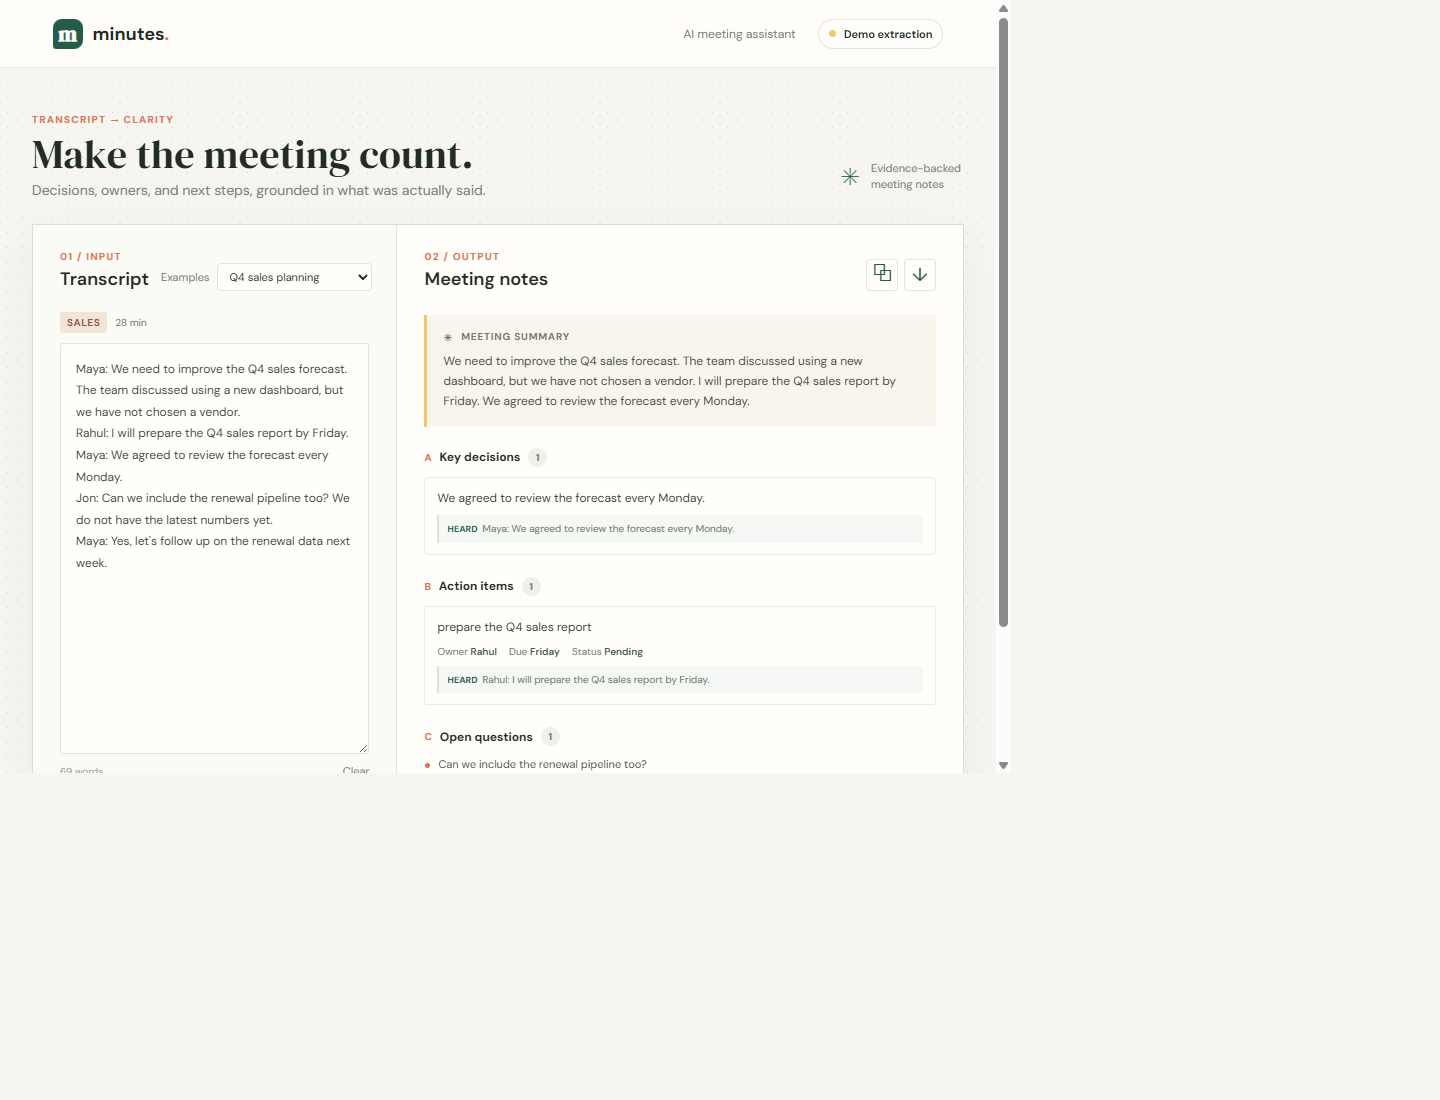
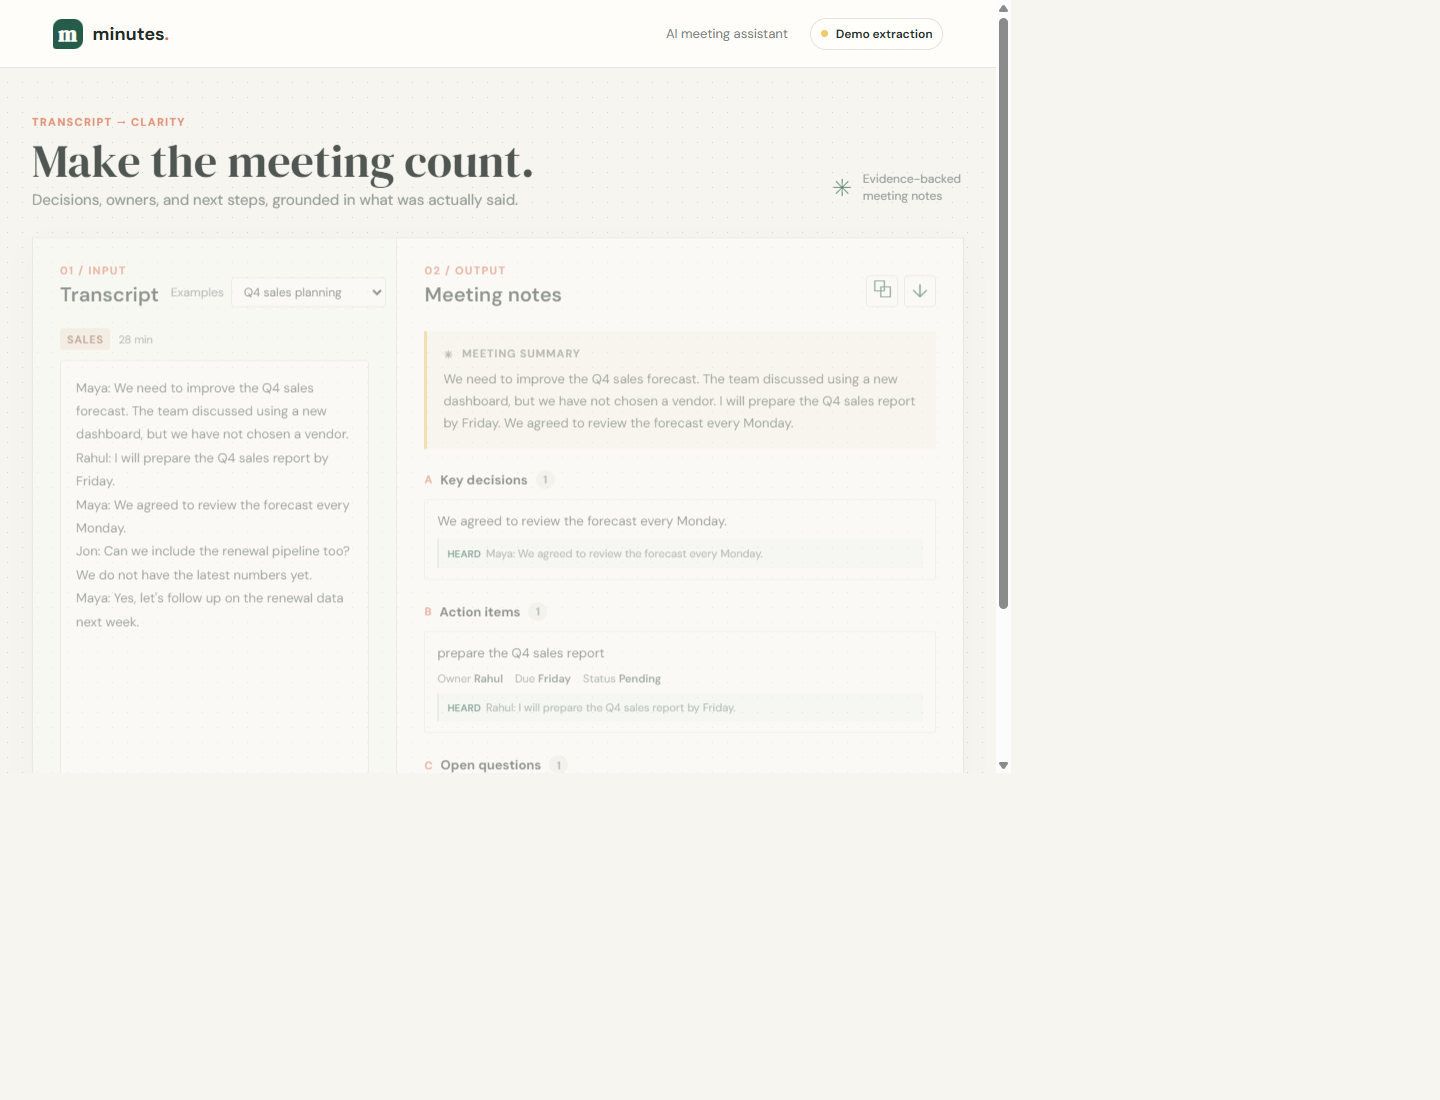
nodejs

diff --git a/public/styles.css b/public/styles.css
@@ -23,7 +23,7 @@ body {
   background-size: 15px 15px;
   color: var(--ink);
   font-family: var(--sans);
-  font-size: 14px;
+  font-size: 15px;
 }
 button, select, textarea { font: inherit; }
 button { cursor: pointer; }
@@ -39,38 +39,39 @@ button { cursor: pointer; }
 .brand { display: inline-flex; align-items: center; gap: 10px; text-decoration: none; color: var(--ink); font-size: 18px; font-weight: 700; letter-spacing: 0; }
 .brand-mark { width: 30px; height: 30px; display: grid; place-items: center; border-radius: 9px 9px 9px 3px; background: var(--green); color: var(--white); font-family: var(--serif); font-size: 21px; line-height: 1; }
 .brand-period { color: var(--coral); }
-.topbar-right { display: flex; align-items: center; gap: 22px; color: var(--muted); font-size: 12px; }
-.mode-pill { display: inline-flex; align-items: center; gap: 8px; padding: 7px 10px; border: 1px solid var(--line); border-radius: 99px; background: var(--white); color: var(--ink); font-size: 11px; font-weight: 600; }
+.topbar-right { display: flex; align-items: center; gap: 22px; color: var(--muted); font-size: 13px; }
+.mode-pill { display: inline-flex; align-items: center; gap: 8px; padding: 7px 10px; border: 1px solid var(--line); border-radius: 99px; background: var(--white); color: var(--ink); font-size: 12px; font-weight: 600; }
 .mode-dot { width: 7px; height: 7px; border-radius: 50%; background: var(--yellow); }
 .mode-pill.is-ai .mode-dot { background: #54a573; }
 .page-shell { width: min(1240px, calc(100% - 64px)); margin: 0 auto; padding: 44px 0 22px; }
 .page-heading { display: flex; justify-content: space-between; align-items: end; margin: 0 0 25px; animation: enter .45s ease both; }
-.eyebrow, .section-kicker { margin: 0; color: var(--coral); font-size: 10px; font-weight: 700; letter-spacing: 1.3px; }
-h1 { margin: 7px 0 4px; font-family: var(--serif); font-size: clamp(32px, 4vw, 44px); font-weight: 400; line-height: 1.08; letter-spacing: 0; }
-.subtitle { margin: 0; color: var(--muted); font-size: 14px; }
-.heading-note { display: flex; align-items: center; gap: 10px; padding: 0 3px 4px 0; color: var(--muted); font-size: 11px; line-height: 1.45; }
+.eyebrow, .section-kicker { margin: 0; color: var(--coral); font-size: 11px; font-weight: 700; letter-spacing: 1.3px; }
+h1 { margin: 7px 0 4px; font-family: var(--serif); font-size: 46px; font-weight: 400; line-height: 1.08; letter-spacing: 0; }
+.subtitle { margin: 0; color: var(--muted); font-size: 15px; }
+.heading-note { display: flex; align-items: center; gap: 10px; padding: 0 3px 4px 0; color: var(--muted); font-size: 12px; line-height: 1.45; }
 .note-mark { color: var(--green); font-size: 24px; }
 .workspace { display: grid; grid-template-columns: minmax(340px, .87fr) minmax(0, 1.35fr); align-items: stretch; min-height: 620px; border: 1px solid #dcdcd3; background: var(--white); box-shadow: 0 12px 35px rgba(34, 43, 39, .055); animation: enter .55s .06s ease both; }
 .transcript-panel, .results-panel { min-width: 0; padding: 25px 27px 22px; }
 .transcript-panel { display: flex; flex-direction: column; border-right: 1px solid var(--line); background: rgba(250, 249, 244, .72); }
 .panel-heading, .results-header { display: flex; justify-content: space-between; align-items: end; gap: 12px; }
-h2 { margin: 4px 0 0; font-size: 18px; font-weight: 600; letter-spacing: 0; }
-.sample-picker { display: flex; align-items: center; gap: 7px; color: var(--muted); font-size: 11px; }
-select { max-width: 155px; padding: 5px 22px 5px 8px; border: 1px solid var(--line); border-radius: 4px; background: var(--white); color: var(--ink); font-size: 11px; }
-.transcript-meta { display: flex; gap: 8px; align-items: center; margin: 21px 0 10px; color: var(--muted); font-size: 10px; }
+.panel-heading, .results-header { display: flex; justify-content: space-between; align-items: end; gap: 12px; }
+h2 { margin: 4px 0 0; font-size: 20px; font-weight: 600; letter-spacing: 0; }
+.sample-picker { display: flex; align-items: center; gap: 7px; color: var(--muted); font-size: 12px; }
+select { max-width: 155px; padding: 5px 22px 5px 8px; border: 1px solid var(--line); border-radius: 4px; background: var(--white); color: var(--ink); font-size: 12px; }
+.transcript-meta { display: flex; gap: 8px; align-items: center; margin: 21px 0 10px; color: var(--muted); font-size: 11px; }
 .transcript-meta span:first-child { padding: 4px 7px; border-radius: 3px; background: #f2e5d7; color: #88583c; font-weight: 700; letter-spacing: .55px; }
-#transcript-input { width: 100%; min-height: 340px; flex: 1; resize: vertical; padding: 15px; border: 1px solid var(--line); border-radius: 3px; outline: none; background: #fffefa; color: #3a433e; font-size: 12px; line-height: 1.8; transition: border-color .2s, box-shadow .2s; }
+#transcript-input { width: 100%; min-height: 340px; flex: 1; resize: vertical; padding: 15px; border: 1px solid var(--line); border-radius: 3px; outline: none; background: #fffefa; color: #3a433e; font-size: 13px; line-height: 1.8; transition: border-color .2s, box-shadow .2s; }
 #transcript-input:focus { border-color: #81a18e; box-shadow: 0 0 0 3px rgba(36, 92, 73, .08); }
 #transcript-input::placeholder { color: #a4aaa4; }
-.input-footer { display: flex; justify-content: space-between; align-items: center; padding: 8px 0 14px; color: #9a9f99; font-size: 10px; }
-.clear-button { padding: 2px 0; border: 0; background: none; color: var(--muted); font-size: 11px; }
+.input-footer { display: flex; justify-content: space-between; align-items: center; padding: 8px 0 14px; color: #9a9f99; font-size: 11px; }
+.clear-button { padding: 2px 0; border: 0; background: none; color: var(--muted); font-size: 12px; }
 .clear-button:hover { color: var(--coral); }
-.analyze-button { display: flex; align-items: center; gap: 10px; min-height: 44px; padding: 0 13px; border: 0; border-radius: 3px; background: var(--green); color: white; font-size: 12px; font-weight: 600; transition: background .2s, transform .2s; }
+.analyze-button { display: flex; align-items: center; gap: 10px; min-height: 44px; padding: 0 13px; border: 0; border-radius: 3px; background: var(--green); color: white; font-size: 13px; font-weight: 600; transition: background .2s, transform .2s; }
 .analyze-button:hover { transform: translateY(-1px); background: var(--green-dark); }
 .analyze-button:disabled { cursor: wait; opacity: .7; }
 .button-icon { font-size: 17px; }
 .button-arrow { margin-left: auto; font-size: 17px; }
-.privacy-note { margin: 12px 0 0; color: #929991; font-size: 10px; text-align: center; }
+.privacy-note { margin: 12px 0 0; color: #929991; font-size: 11px; text-align: center; }
 .lock-icon { margin-right: 4px; color: #5b9274; font-size: 8px; }
 .results-panel { display: flex; flex-direction: column; }
 .result-actions { display: flex; gap: 6px; }
@@ -81,32 +82,33 @@ select { max-width: 155px; padding: 5px 22px 5px 8px; border: 1px solid var(--li
 .empty-state { min-height: 500px; display: flex; flex-direction: column; align-items: center; justify-content: center; text-align: center; color: var(--muted); }
 .empty-glyph { display: grid; place-items: center; width: 48px; height: 48px; margin-bottom: 15px; border: 1px solid #d9e3da; border-radius: 50%; color: var(--green); font-size: 22px; }
 .empty-state p { margin: 0 0 6px; color: var(--ink); font-family: var(--serif); font-size: 23px; }
-.empty-state > span:last-child { max-width: 250px; font-size: 11px; line-height: 1.6; }
+.empty-state > span:last-child { max-width: 250px; font-size: 12px; line-height: 1.6; }
 .summary-block { margin: 24px 0 21px; padding: 15px 16px; border-left: 3px solid var(--yellow); background: #f8f6ec; }
-.block-label { display: flex; align-items: center; gap: 8px; margin: 0 0 7px; color: #73786f; font-size: 10px; font-weight: 700; letter-spacing: .8px; text-transform: uppercase; }
-.summary-block p { margin: 0; color: #444c46; font-size: 12px; line-height: 1.7; }
+.block-label { display: flex; align-items: center; gap: 8px; margin: 0 0 7px; color: #73786f; font-size: 11px; font-weight: 700; letter-spacing: .8px; text-transform: uppercase; }
+.summary-block p { margin: 0; color: #444c46; font-size: 13px; line-height: 1.7; }
 .result-section { margin: 0 0 22px; }
-.result-section-title { display: flex; align-items: center; gap: 8px; margin: 0 0 10px; font-size: 12px; font-weight: 700; }
-.section-number { color: var(--coral); font-size: 10px; font-weight: 700; }
-.count { display: inline-grid; min-width: 19px; height: 19px; place-items: center; border-radius: 50%; background: #f0f0e9; color: var(--muted); font-size: 10px; }
+.result-section-title { display: flex; align-items: center; gap: 8px; margin: 0 0 10px; font-size: 13px; font-weight: 700; }
+.section-number { color: var(--coral); font-size: 11px; font-weight: 700; }
+.count { display: inline-grid; min-width: 19px; height: 19px; place-items: center; border-radius: 50%; background: #f0f0e9; color: var(--muted); font-size: 11px; }
 .note-list { display: grid; gap: 8px; }
 .note-item { padding: 11px 12px; border: 1px solid #ebeae3; border-radius: 3px; background: #fffefa; }
-.note-main { color: #343c37; font-size: 12px; line-height: 1.55; }
-.note-meta { display: flex; flex-wrap: wrap; gap: 6px 12px; margin-top: 8px; color: var(--muted); font-size: 10px; }
+.note-main { color: #343c37; font-size: 13px; line-height: 1.55; }
+.note-meta { display: flex; flex-wrap: wrap; gap: 6px 12px; margin-top: 8px; color: var(--muted); font-size: 11px; }
 .note-meta strong { color: #47574d; font-weight: 600; }
-.evidence { display: block; margin-top: 8px; padding: 6px 8px; border-left: 2px solid #d8e5db; background: #f5f8f4; color: #718077; font-size: 10px; line-height: 1.5; }
-.evidence-label { margin-right: 5px; color: var(--green); font-size: 9px; font-weight: 700; text-transform: uppercase; }
-.empty-list { padding: 10px 0; color: #939b93; font-size: 11px; }
+.evidence { display: block; margin-top: 8px; padding: 6px 8px; border-left: 2px solid #d8e5db; background: #f5f8f4; color: #718077; font-size: 11px; line-height: 1.5; }
+.evidence-label { margin-right: 5px; color: var(--green); font-size: 10px; font-weight: 700; text-transform: uppercase; }
+.empty-list { padding: 10px 0; color: #939b93; font-size: 12px; }
 .text-list { display: grid; gap: 7px; margin: 0; padding: 0; list-style: none; }
-.text-list li { position: relative; padding-left: 14px; color: #4a524c; font-size: 11px; line-height: 1.55; }
+.text-list li { position: relative; padding-left: 14px; color: #4a524c; font-size: 12px; line-height: 1.55; }
 .text-list li::before { position: absolute; top: 7px; left: 1px; width: 5px; height: 5px; border-radius: 50%; background: var(--coral); content: ""; }
-.error-message { margin-top: 22px; padding: 13px; border: 1px solid #e8c1b2; background: #fff7f2; color: #99513c; font-size: 12px; }
-.page-footer { display: flex; justify-content: space-between; padding: 15px 2px 0; color: #90978e; font-size: 10px; }
-.toast { position: fixed; right: 24px; bottom: 24px; padding: 11px 15px; border-radius: 4px; background: var(--ink); color: white; font-size: 12px; opacity: 0; pointer-events: none; transform: translateY(8px); transition: .2s; }
+.error-message { margin-top: 22px; padding: 13px; border: 1px solid #e8c1b2; background: #fff7f2; color: #99513c; font-size: 13px; }
+.page-footer { display: flex; justify-content: space-between; padding: 15px 2px 0; color: #90978e; font-size: 11px; }
+.toast { position: fixed; right: 24px; bottom: 24px; padding: 11px 15px; border-radius: 4px; background: var(--ink); color: white; font-size: 13px; opacity: 0; pointer-events: none; transform: translateY(8px); transition: .2s; }
 .toast.visible { opacity: 1; transform: translateY(0); }
 @keyframes enter { from { opacity: 0; transform: translateY(8px); } to { opacity: 1; transform: translateY(0); } }
 @media (max-width: 820px) {
   .page-shell { width: min(720px, calc(100% - 36px)); padding-top: 32px; }
+  h1 { font-size: 40px; }
   .workspace { grid-template-columns: 1fr; }
   .transcript-panel { min-height: 540px; border-right: 0; border-bottom: 1px solid var(--line); }
   .results-panel { min-height: 500px; }
@@ -119,12 +121,12 @@ select { max-width: 155px; padding: 5px 22px 5px 8px; border: 1px solid var(--li
   .page-heading { margin-bottom: 19px; }
   .heading-note { display: none; }
   h1 { font-size: 34px; }
-  .subtitle { max-width: 310px; font-size: 12px; line-height: 1.5; }
+  .subtitle { max-width: 310px; font-size: 13px; line-height: 1.5; }
   .transcript-panel, .results-panel { padding: 20px 16px; }
   .panel-heading { align-items: start; }
   .sample-picker { flex-direction: column; align-items: end; gap: 4px; }
   select { max-width: 145px; }
   #transcript-input { min-height: 300px; }
-  .page-footer { gap: 12px; font-size: 9px; }
+  .page-footer { gap: 12px; font-size: 10px; }
   .page-footer span:last-child { text-align: right; }
 }

diff --git a/server.js b/server.js
@@ -1,3 +1,5 @@
+require('dotenv').config();
+
 const http = require('node:http');
 const fs = require('node:fs');
 const path = require('node:path');
@@ -6,6 +8,9 @@ const root = __dirname;
 const publicRoot = path.join(root, 'public');
 const port = Number(process.env.PORT || 3000);
 const schema = require('./structured-output.schema.json');
+const llmBaseUrl = (process.env.LLM_BASE_URL || 'https://api.openai.com/v1').replace(/\/+$/, '');
+const llmModel = process.env.LLM_MODEL || process.env.OPENAI_MODEL || 'gpt-4o-mini';
+const llmApiKey = process.env.LLM_API_KEY || process.env.NVIDIA_API_KEY || process.env.OPENAI_API_KEY;
 
 const systemPrompt = `You are a precise meeting-minutes assistant. Extract only information supported by the transcript. A topic being discussed is not a decision; include a key decision only when participants explicitly decide, agree, approve, select, or commit to a direction. An action item must be explicitly assigned, requested, or promised. Never infer an owner or deadline: use null when absent. Preserve short transcript evidence for every decision and action. Keep open questions genuinely unresolved. Return JSON matching the provided schema.`;
 
@@ -36,10 +41,11 @@ function parseTranscript(transcript) {
         const requestMatch = statement.match(/\b(?:please|can you|could you|will you)\s+([A-Z][a-z]+)\b/);
         const owner = ownerMatch?.[1] && !/^(?:we|they|i)$/i.test(ownerMatch[1])
           ? ownerMatch[1]
-          : requestSubject?.[1] || requestMatch?.[1] || (/^(?:i'll|i will)\b/i.test(statement) ? speaker : null);
+          : requestSubject?.[1] || requestMatch?.[1] || (/^(?:(?:yes|sure|okay|ok|right|absolutely)[,;:]?\s+)?(?:i'll|i will)\b/i.test(statement) ? speaker : null);
         const taskText = statement
           .replace(/^[A-Z][a-z]+\s+will\s+/i, '')
           .replace(/^[A-Z][a-z]+,?\s+(?:can you|could you|will you)\s+/i, '')
+          .replace(/^(?:yes|sure|okay|ok|right|absolutely)[,;:]?\s+/i, '')
           .replace(/^(?:i'll|i will|we'll|we will|please|can you|could you|will you)\s+/i, '')
           .replace(/\bby\s+[^,.!?]+/i, '')
           .replace(/[.!?]+$/, '')
@@ -71,15 +77,15 @@ function parseTranscript(transcript) {
   };
 }
 
-async function analyzeWithOpenAI(transcript) {
-  const response = await fetch('https://api.openai.com/v1/chat/completions', {
+async function analyzeWithLLM(transcript) {
+  const response = await fetch(`${llmBaseUrl}/chat/completions`, {
     method: 'POST',
     headers: {
-      Authorization: `Bearer ${process.env.OPENAI_API_KEY}`,
+      Authorization: `Bearer ${llmApiKey}`,
       'Content-Type': 'application/json',
     },
     body: JSON.stringify({
-      model: process.env.OPENAI_MODEL || 'gpt-4o-mini',
+      model: llmModel,
       temperature: 0,
       messages: [
         { role: 'system', content: systemPrompt },
@@ -123,7 +129,7 @@ function serveStatic(request, response) {
 
 const server = http.createServer(async (request, response) => {
   if (request.method === 'GET' && request.url === '/api/status') {
-    sendJson(response, 200, { aiEnabled: Boolean(process.env.OPENAI_API_KEY) });
+    sendJson(response, 200, { aiEnabled: Boolean(llmApiKey) });
     return;
   }
 
@@ -140,10 +146,10 @@ const server = http.createServer(async (request, response) => {
           sendJson(response, 400, { error: 'Add a transcript before analyzing.' });
           return;
         }
-        const result = process.env.OPENAI_API_KEY
-          ? await analyzeWithOpenAI(transcript)
+        const result = llmApiKey
+          ? await analyzeWithLLM(transcript)
           : parseTranscript(transcript);
-        sendJson(response, 200, { result, mode: process.env.OPENAI_API_KEY ? 'ai' : 'demo' });
+        sendJson(response, 200, { result, mode: llmApiKey ? 'ai' : 'demo' });
       } catch (error) {
         sendJson(response, 500, { error: error.message || 'Analysis failed.' });
       }

diff --git a/test/extraction.test.js b/test/extraction.test.js
@@ -51,6 +51,13 @@ test('group commitments stay unassigned and second sentences are not skipped', (
   assert.equal(result.actionItems[1].owner, 'Evan');
 });
 
+test('affirmative first-person commitments use the speaker as owner', () => {
+  const result = parseTranscript('Leo: Yes, I will share the rota by Wednesday.');
+  assert.equal(result.actionItems[0].task, 'share the rota');
+  assert.equal(result.actionItems[0].owner, 'Leo');
+  assert.equal(result.actionItems[0].deadline, 'Wednesday');
+});
+
 test('a direct request assigns the requested person, not the speaker', () => {
   const result = parseTranscript('Aisha: Leo, can you confirm the rota by Wednesday?');
   assert.equal(result.actionItems[0].owner, 'Leo');

diff --git a/README.md b/README.md
@@ -12,14 +12,13 @@ npm start
 
 Open http://localhost:3000. The app starts in **Demo extraction** mode with five example transcripts and a deterministic, rule-based extractor. Demo mode is useful for trying the interface; it is not a general-purpose language model.
 
-For AI extraction, provide an OpenAI API key to the server process (never the browser):
+For AI extraction, configure an OpenAI-compatible endpoint and its API key in the local `.env` file (never in browser code). The repo includes NVIDIA defaults in `.env`; enter your key on the `NVIDIA_API_KEY` line:
 
-```powershell
-$env:OPENAI_API_KEY="your-key"
-npm start
+```env
+NVIDIA_API_KEY=your-key
 ```
 
-Optionally set `OPENAI_MODEL` (defaults to `gpt-4o-mini`) and `PORT`. The server sends transcripts to the configured OpenAI API when a key is set. Do not use this mode with sensitive meeting content unless your organization has approved that processing.
+Start or restart the app with `npm start`; the server loads `.env` automatically. `.env` is ignored by Git. The server also accepts `LLM_API_KEY` as a provider-neutral key name. Existing `OPENAI_API_KEY` and `OPENAI_MODEL` settings remain supported; defaults without `.env` are the OpenAI API URL and `gpt-4o-mini`. Set `PORT` to change the local port. The server sends transcripts to the configured provider when a key is set. Do not use this mode with sensitive meeting content unless your organization has approved that processing.
 
 ## Output contract
 
@@ -61,6 +60,6 @@ The demo parser is intentionally conservative and only supports explicit English
 
 ## Demo and deployment
 
-The interface includes five selectable transcripts, editable transcript input, one-click analysis, evidence-backed results, JSON copy, and JSON download. For a live demo, deploy the Node server to a host that supports Node.js and configure `OPENAI_API_KEY` as a server-side environment secret if AI extraction is required. The included app is ready to run locally; a public repository, public live deployment, and recorded demo video must be created/published by the submitter.
+The interface includes five selectable transcripts, editable transcript input, one-click analysis, evidence-backed results, JSON copy, and JSON download. For a live demo, deploy the Node server to a host that supports Node.js and configure the provider API key as a server-side environment secret if AI extraction is required. The included app is ready to run locally; a public repository, public live deployment, and recorded demo video must be created/published by the submitter.
 
 ![Minutes app desktop screenshot](public/demo.png)
